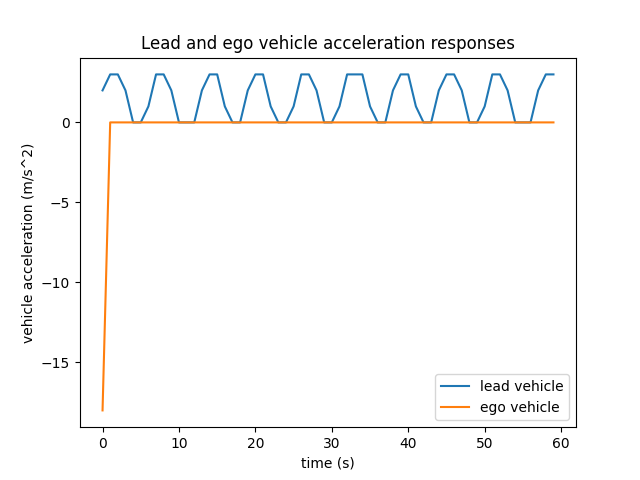
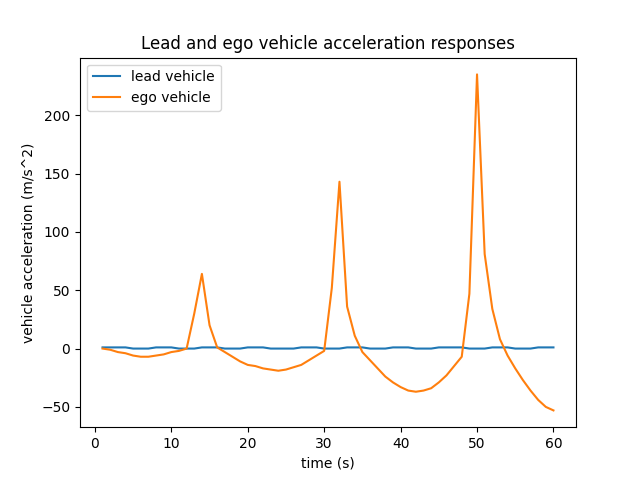
PID control isnt responded correctly. the ego vehicle struggles to maintain the velocity setpoint but it responds to distance violations

diff --git a/src/acc.cc b/src/acc.cc
@@ -18,41 +18,82 @@ void ACC::SetPID(double P, double I, double D) {
 }
 
 void ACC::ApplyControl(double lead_distance, double ego_distance, double actual_speed) {
+  //  std::cout << "lead distance: " << lead_distance << ", " << "ego distance: " << ego_distance << std::endl;
+   // std::cout << "abs distance: " << abs(lead_distance-ego_distance) << std::endl;
+   // std::cout << "---------------" << std::endl;
+
+    this->actual_speed=actual_speed;
+
     if(abs(lead_distance-ego_distance) > set_distance) {
         // minimum distance is not violated
+
+     //   std::cout << "dist not violated" << std::endl;
         setpoint = set_speed;
+        
         // calculate control value
         control = controller.Compute(actual_speed, setpoint); 
-        if(actual_speed>set_speed) {
+
+
+/*        if(actual_speed>set_speed) {
+            std::cout << "too fast" << std::endl;
             // slow down a bit
             brake = -control;
             gas = 0;
         } else {
+            std::cout << "too slow" << std::endl;
             // speed up a bit
             gas = control;
             brake = 0;
-        }
+        } */
+
     } else {
+//        std::cout << "dist violated" << std::endl;
         // minimum distance is violated
         setpoint = abs(set_speed-actual_speed);
         // trigger PID to act around new setpoint
         control = controller.Compute(actual_speed, setpoint);
 
-        brake = -control;
-        gas = 0;
+       
+
+      //  brake = -control;
+       // gas = 0;
+    } 
+
+    control = control*0.1;
+//    if(control>10) {
+ //       control=control*0.1;
+//    } else if(control<-10) {
+//        control=control*0.1;
+ //   }
+
+    if(control>=0) {
+        gas=control;
+        brake=0;
+    } else {
+        gas=0;
+        brake=-control;
     }
+
+//    std::cout << "setpoint: " << setpoint << ", actual speed: " << actual_speed << ", control -> " << control << std::endl;
+//    std::cout << "gas: " << gas << ", " << "brake: " << brake << std::endl;
+
+
 }
 
 double ACC::GetAcceleration() {
 
-    force_gas = gas * force_peak * gas_peak_linear_slope;
-
     force_brake = brake * force_brake_peak * brake_peak_linear_slope;
 
-    force_resistance = -(rolling_res * mass * g + 1/2 * pow(actual_speed,2) * aero_cd*rho);
+    if(actual_speed<speed_base) {
+        force_gas = gas * force_peak * gas_peak_linear_slope;
+
+    } else {
+        force_gas = gas * power_peak/actual_speed * gas_peak_linear_slope;
+    }
 
     force = force_gas + force_brake + force_resistance;
     acceleration = force / mass;
+//    std::cout << "acceleration: " << acceleration << std::endl;
     return acceleration;
 }
 

diff --git a/src/main.cc b/src/main.cc
@@ -8,20 +8,20 @@
 #define SETSPEED    30  // setpoint ego speed in m/s
 #define SETDISTANCE 10  // minimum distance in m
 #define SIMDURATION 60  // simulation duration in s
-
+#define SCALE       1   // scale factor for lead acceleration sine wave
+#define SHIFT       1   // shift factor for lead acceleration sine wave
 
 int main(int argc, char* argv[]) {
 
     // initialize vehicles
-    Vehicle lead("lead", 30, 15);
-    Vehicle ego("ego", 20, 0);
+    Vehicle lead("lead", 10, 30, 0);
+    Vehicle ego("ego", 0, 40, 0);
 
-    const int distance = abs(lead.GetPosition()-ego.GetPosition());
     
     ACC acc(SETSPEED, SETDISTANCE); // initialize with the set values
 
     // set PID params through ACC
-    acc.SetPID(1,1,1);
+    acc.SetPID(0.15,1.0,0.0003);
 
     // iterate through clk
     for(int i=0; i<SIMDURATION; i++) {
@@ -32,9 +32,15 @@ int main(int argc, char* argv[]) {
 
         // update vehicle states
         ego.UpdateState(acc.GetAcceleration()); // updates from ACC based on applied control
-        lead.UpdateState(int(2*sin(i)+2)); // updates from waveform
+        lead.UpdateState(SCALE*sin(i)+SHIFT); // updates from waveform
 
-        std::cout << acc.GetError() << "," << acc.GetErrorSum() << "," << lead.GetSpeed() << "," << ego.GetSpeed() << "," << lead.GetAcceleration() << "," << ego.GetAcceleration() << "," << distance << std::endl;
+//        std::cout << lead.GetSpeed() << "," << ego.GetSpeed() << "," << lead.GetAcceleration() << "," << ego.GetAcceleration() << "," << distance << std::endl;
+
+
+//        std::cout << "after state update" << std::endl;
+ //       std::cout << "ego.GetSpeed(): " << ego.GetSpeed() << " lead.GetSpeed(): " << lead.GetSpeed() << std::endl;
+
+        std::cout << acc.GetError() << "," << acc.GetErrorSum() << "," << lead.GetSpeed() << "," << ego.GetSpeed() << "," << lead.GetAcceleration() << "," << ego.GetAcceleration() << "," << abs(lead.GetPosition()-ego.GetPosition()) << std::endl;
 
     }
 }

diff --git a/tests/main.py b/tests/main.py
@@ -7,9 +7,13 @@ import numpy as np
 import matplotlib.pyplot as plt
 
 if __name__ == "__main__":
+
     DURATION=60
     STEP=1
-    T = np.linspace(0, DURATION-1, STEP*DURATION)
+    T = np.linspace(1, DURATION, STEP*DURATION)
+
+    SETPOINT=[30]*DURATION
+    DISTANCE=[10]*DURATION
 
     stdin_arr = []
     error = []
@@ -69,10 +73,11 @@ if __name__ == "__main__":
     # velocity
     plt.plot(T, lead_v)
     plt.plot(T, ego_v)
+    plt.plot(T, SETPOINT) 
     plt.xlabel("time (s)")
     plt.ylabel("vehicle velocity (m/s)")
     plt.title("Lead and ego vehicle velocity responses")
-    plt.legend(["lead vehicle", "ego vehicle"])
+    plt.legend(["lead vehicle", "ego vehicle", "cruise setpoint"])
     plt.savefig("plots/velocity.png")
     plt.clf()
 
@@ -90,8 +95,10 @@ if __name__ == "__main__":
 
     # distance
     plt.plot(T, dist)
+    plt.plot(T, DISTANCE)
     plt.xlabel("time (s)")
     plt.ylabel("distance (m)")
     plt.title("Distance between lead and ego vehicle over time")
+    plt.legend(["actual distance","minimum distance"])
     plt.savefig("plots/distance.png")
 

diff --git a/src/vehicle.cc b/src/vehicle.cc
@@ -1,26 +1,17 @@
 #include "vehicle.h"
+#include <iostream>
 #include <string>
 #include <math.h>
 
 // construct and set vehicle name
-Vehicle::Vehicle(const std::string& name, const double position0, const double speed0) {
+Vehicle::Vehicle(const std::string& name, const double position0, const double speed0, const double acceleration0) {
     this->name=name;
     position=position0;
     speed=speed0;
+    acceleration=acceleration0;
+//    std::cout << "Vehicle construct " << name << ", " << speed << ", " << position << std::endl;
 } 
 
-/*
-// sets initial position in global reference frame
-void Vehicle::SetInitialPosition(double position0) {
-    position=position0;
-}
-
-// sets initial speed
-void Vehicle::SetInitialSpeed(double speed0) {
-    speed=speed0;
-}
-
-*/
 // get vehicle position in global reference frame
 double Vehicle::GetPosition() {
     return position;

diff --git a/include/acc.h b/include/acc.h
@@ -32,17 +32,15 @@ private:
     double error_sum;
     double control;
 
-    const double g=9.81;
     const double mass=1200.0;
-    const double rho=1.225;
-    const double rolling_res=0.01;
-    const double aero_cd=0.3;
-    const double force_brake_peak=mass*3.0;
+    const double force_peak=mass*3.0;
+    const double force_brake_peak=-mass*5.0;
     const double gas_peak_linear_slope=3.33;
-    const double brake_peak_linear_slope=0.2;
+    const double brake_peak_linear_slope=0.1;
+    const double power_peak=100000;
+    const double speed_base=power_peak/force_peak;
 
     double force_gas;
-    double force_peak;
     double force_brake;
     double force_resistance;
     double force;

diff --git a/include/vehicle.h b/include/vehicle.h
@@ -5,7 +5,7 @@
 
 class Vehicle {
 public:
-    Vehicle(const std::string&, const double, const double);
+    Vehicle(const std::string&, const double, const double, const double);
 
     double GetPosition();
 
@@ -19,12 +19,12 @@ private:
     std::string name;
     double position0;
     double speed0;
+    double acceleration0;
     double position;
     double speed;
     double acceleration;
     double gas;
     double brake;
-    double actual_speed;
 };
 
 #endif // VEHICLE_H_

diff --git a/README.md b/README.md
@@ -2,6 +2,11 @@
  
 Adaptive cruise control (ACC) is a control system that modifies the speed of the ego vehicle in response to conditions on the road. The ACC operates in two modes: speed control and spacing control. The control goal varies depending on which mode is set. The inter-vehicle distance is maintained with a constant value. The goal of the system is to maintain the desired distance without causing a collision, keeping the maximum acceleration and minimum deceleration within specified limits (to guarantee safety etc).
 
+customer feedback:
+
+
+"I used my error-ridden TomCo Brand cruise control and reached Mach 1.5 on my way to the market, which is 5 mins away bc I drive everywhere. Life is great!"
+
 ## file structure
 
 ```
